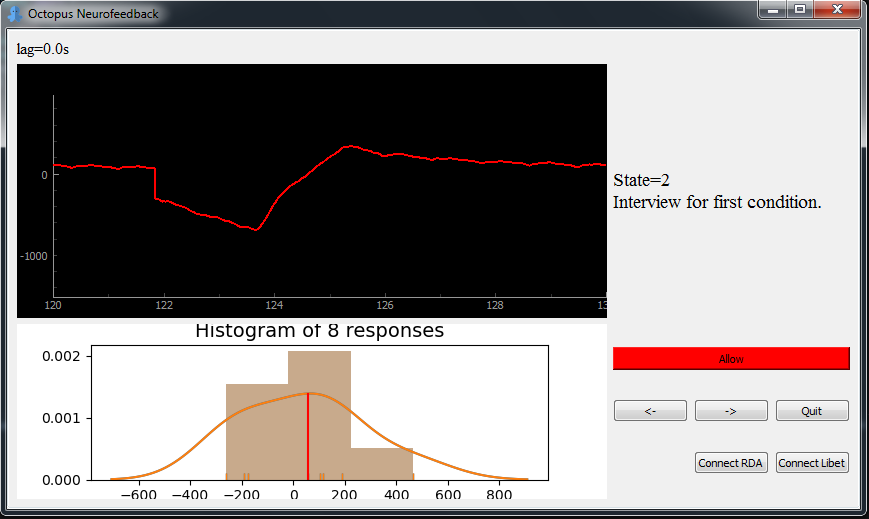
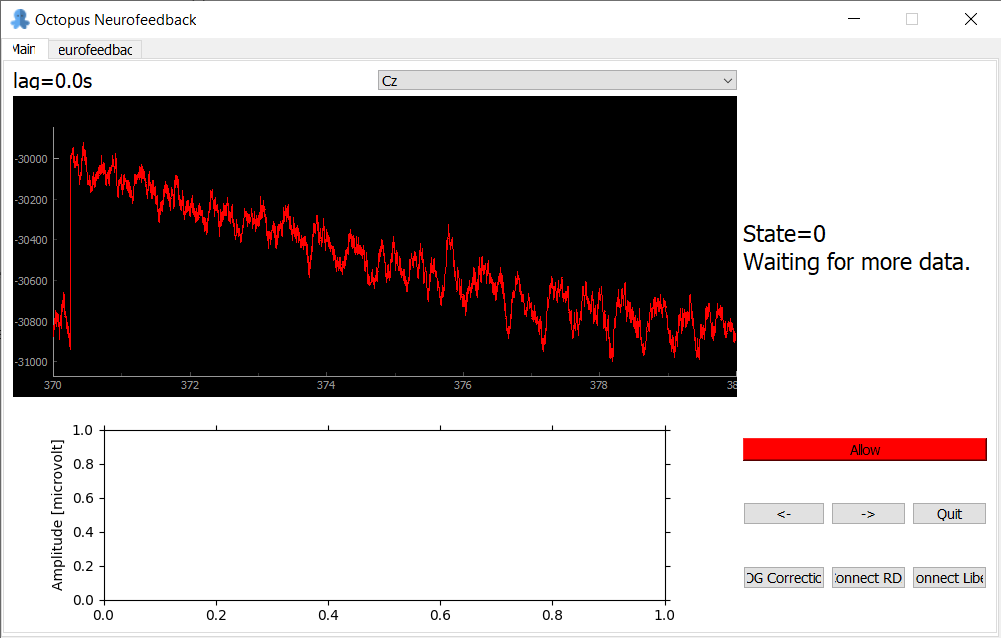
Minor changes

diff --git a/octopus.py b/octopus.py
@@ -1,9 +1,6 @@
 from PyQt5.QtGui import *
 from PyQt5.QtWidgets import *
 from PyQt5.QtCore import *
-from matplotlib.pyplot import axes
-from numpy.lib.format import _has_metadata
-import pyqtgraph as pg
 
 import matplotlib.pyplot as plt
 from callbacks import Callbacks
@@ -42,6 +39,7 @@ class Octopus(MainWindow):
         self.communicate_quit_code = 2
         self.EOGCorrectionDuration = 10
         self.d_est = np.zeros(100)
+        self.toggle_EOG_correction = True
         self.responded = False
         self.current_state = 0
         self.get_statelist()
@@ -99,24 +97,28 @@ class Octopus(MainWindow):
         self.plotsReady = False
         self.init_plots()
 
+        # Timer: Like a scheduler that runs functions after a given interval
         # Set timer for GUI-related tasks:
         self.timer = QTimer()
         self.timer.setInterval(100)  # every 100 ms it is called
         self.timer.timeout.connect(self.GUI_routines)
         self.timer.start()
         
+        # Set timer for the Data Monitor plot
         self.plotTimer = QTimer()
         self.plotTimer.setInterval(20)  # every 20 ms it is called
         self.plotTimer.timeout.connect(self.data_monitor_update)
         self.plotTimer.start()
 
-        # Threading:
+        # Threading: Worker call functions  asynchronously
+
+        # Worker: Data Gatherer (which reads data from brain vision RDA via TCP)
         self.worker_gatherer = Worker(self.gatherer.gather_data)
+        self.threadpool.start(self.worker_gatherer)
+        
+        # Worker: Signalling (Sends signals to the stimulus presentation program)
         self.worker_communication = SignallingWorker(self.internal_tcp.communication_routines)
         self.worker_communication.signals.result.connect(self.response_triggered)  
-        
-        
-        self.threadpool.start(self.worker_gatherer)
         self.threadpool.start(self.worker_communication)
         
     def init_plots(self):
@@ -139,14 +141,15 @@ class Octopus(MainWindow):
                 channelOfInterestIdx=self.channelOfInterestIdx,
                 EOGChannelIndex=self.EOGChannelIndex, blinder=self.blinder)
 
-            self.startNeurofeedbacks()
+            # self.startNeurofeedbacks()
             self.plotsReady = True
         else:
             self.plotsReady = False
 
     def data_monitor_update(self):
         if self.plotsReady:
-            self.data_monitor.update(self.gatherer, self.d_est, self.viewChannel)
+            # self.data_monitor.update(self.gatherer, self.d_est, self.viewChannel)
+            self.data_monitor.update(self)
         else:
             # Plots not ready - sleep a bit!
             time.sleep(0.25)
@@ -322,7 +325,7 @@ class Octopus(MainWindow):
 
     def closeAll(self):
         # Save experiment
-        print("stopping")
+        print("Closing Octopus")
         self.save()
         # close routines
         self.plotTimer.stop()
@@ -413,15 +416,4 @@ class Octopus(MainWindow):
         fun = freq_band_power
         self.NF_alpha = BaseNeuroFeedback(fun, self.NFCanvas, self.threadpool, self.gatherer, freqs, sr, timeRangeProcessed=0.25, 
             channelsOfInterest=channelsOfInterest)
-
-        # # Detrended Fluctuation Analysis Exponent
-        # channelsOfInterest = ['Cz']
-        # fun = dfa
-        # self.NF_alpha = BaseNeuroFeedback(fun, self.NFCanvas, self.threadpool, self.gatherer, timeRangeProcessed=0.25, 
-        #     channelsOfInterest=channelsOfInterest, fit_exp='poly')
-
-    
-           
-
-
-
+     

diff --git a/plot.py b/plot.py
@@ -52,8 +52,13 @@ class DataMonitor:
         self.widget.setXRange(np.min(self.time), np.max(self.time), padding=0)
         self.widget.setYRange(self.ylim[0], self.ylim[1], padding=0)
 
-    def update(self, gatherer, d_est, viewChannel):
-        ''' This method takes a data_package and plots it at the appropriate position in the data monitor plot
+        self.widget.enableAutoRange('y', enable=True)
+        self.widget.setAutoVisible(y=True)
+
+    # def update(self, gatherer, d_est, viewChannel):
+    def update(self, octopus):
+        ''' This method takes a data_package and plots it at the appropriate position in the data monitor plot. 
+            This function is called every 20 ms.
         Parameters:
         -----------
         data_package : list/numpy.ndarray, next data pack
@@ -61,6 +66,11 @@ class DataMonitor:
         Return:
         -------
         '''
+        gatherer = octopus.gatherer
+        d_est = octopus.d_est
+        toggle_EOG_correction = octopus.toggle_EOG_correction
+        viewChannel = octopus.viewChannel
+        
         if viewChannel is not None:
             self.viewChannel = viewChannel
 
@@ -70,7 +80,8 @@ class DataMonitor:
         dataMemory = gatherer.dataMemory[self.viewChannelIndex, :]
         eogMemory = gatherer.dataMemory[self.EOGChannelIndex, :]
         # Correct EOG
-        dataMemory = dataMemory - (eogMemory * d_est[self.viewChannelIndex])
+        if toggle_EOG_correction:
+            dataMemory = dataMemory - (eogMemory * d_est[self.viewChannelIndex])
         IncomingBlockMemory = gatherer.blockMemory
         lagtime = gatherer.lag_s
 
@@ -109,7 +120,8 @@ class DataMonitor:
 
         # If one window is full, start again on left side
         if new_win: # and self.blockCount != 0:
-            self.widget.enableAutoRange('y', False)
+            self.widget.enableAutoRange('y', enable=True)
+            self.widget.setAutoVisible(y=True)
             self.time = np.linspace(self.n_window*self.window_len_s, (self.n_window + 1)*self.window_len_s, self.window_size)
             # New x and y limits
             # new_limits = self.decide_ylimits()

diff --git a/callbacks.py b/callbacks.py
@@ -6,7 +6,7 @@ from gui import SelectChannels, InputDialog
 class Callbacks:
     def __init__(self, octopus):
         self.allow_presentation = False
-        self.permission_statement = ['Allow', 'Forbid']
+        self.permission_statement = ['Disabled', 'Enabled']
         self.buttonColor = ["background-color: red", "background-color: green"]
         self.quit = False
         self.stateChange = 0
@@ -21,12 +21,14 @@ class Callbacks:
         self.octopus.buttonEOGcorrection.pressed.connect(self.EOGcorrection)
         self.octopus.channel_dropdown.currentIndexChanged.connect(self.change_view_channel)
 
+        self.octopus.buttonToggleEOGcorrection.pressed.connect(self.toggleEOGcorrection)
+        self.toggle_EOG_correction_text = ['Off', 'On']
+
     def presentToggle(self):
         self.allow_presentation = not self.allow_presentation
         self.ChangeAllowButton()
 
     def quitexperiment(self):
-        print("pressed")
         self.quit=True
         self.octopus.closeAll()
 
@@ -89,6 +91,16 @@ class Callbacks:
             mydialog.show()
         else:
             print('EOG correction is not possible until gatherer is connected to RDA.')
+    
+    def toggleEOGcorrection(self):
+        ''' Toggle EOG correction on/off'''
+        # Toggle EOG correction
+        self.octopus.toggle_EOG_correction = not self.octopus.toggle_EOG_correction
+        # Change Button label accordingly
+        self.octopus.buttonToggleEOGcorrection.setText(self.toggle_EOG_correction_text[int(self.octopus.toggle_EOG_correction)])
+        # Change Button color accordingly
+        self.octopus.buttonToggleEOGcorrection.setStyleSheet(self.buttonColor[int(self.octopus.toggle_EOG_correction)])
+
 
     def change_view_channel(self):
         print(f'Changed viewchannel for data monitor from {self.octopus.viewChannel} to {self.octopus.channel_dropdown.currentText()}')

diff --git a/gui.py b/gui.py
@@ -45,7 +45,7 @@ class MainWindow(QMainWindow):
         # Add channel dropdown
         self.channel_dropdown = QComboBox()
         # Add buttons
-        self.buttonPresentationcontrol = QPushButton("Allow")
+        self.buttonPresentationcontrol = QPushButton("Disabled")
         self.buttonPresentationcontrol.setStyleSheet("background-color: red")
         self.buttonQuit = QPushButton("Quit")
         self.buttonforward = QPushButton("->")
@@ -53,6 +53,7 @@ class MainWindow(QMainWindow):
         self.buttonEOGcorrection = QPushButton("EOG Correction")
         self.buttonConnectRDA = QPushButton("Connect RDA")
         self.buttonConnectLibet = QPushButton("Connect Libet")
+        self.buttonToggleEOGcorrection = QPushButton("EOG On/Off")
         
         # Button Group
         button_layout = QGridLayout()
@@ -63,6 +64,8 @@ class MainWindow(QMainWindow):
         button_layout.addWidget(self.buttonConnectRDA, 2, 1)
         button_layout.addWidget(self.buttonConnectLibet, 2, 2)
         button_layout.addWidget(self.buttonEOGcorrection, 2, 0)
+        button_layout.addWidget(self.buttonToggleEOGcorrection, 3, 0)
+        
         # Lag and channel dropdown thing
         second_head_layout = QGridLayout()
         second_head_layout.addWidget(self.title, 0, 0)

diff --git a/communication.py b/communication.py
@@ -1,19 +1,18 @@
-from socket import AF_INET, SOCK_STREAM
+from socket import AF_INET, SOCK_STREAM, gethostbyname, gethostname
 import socket
 from tcp import CustomSocket
-from util import gui_retry_cancel
 import select
 import time
 
 class TCP:
-    def __init__(self, IP='192.168.2.122', port=5005, BufferSize=1024, \
+    def __init__(self, IP='10.16.5.93', port=5005, BufferSize=1024, \
         encoding='utf-8', timeout=5):
         ''' This method creates an internal socket connection which enables 
         communication between this neurofeedback program and the libet stimulus
         presentation program. 
         '''
         
-        self.IP = IP
+        self.IP = gethostbyname(gethostname())
         self.port = port
         self.BufferSize = BufferSize
         
@@ -136,7 +135,7 @@ class StimulusCommunication(TCP):
     
     def quit(self):
         self.connected = False
-        self.con.close()
+        self.socket.close()
     
     def communicateQuit(self):
         # Send message to libet presentation that the experiment is over

diff --git a/gather.py b/gather.py
@@ -5,8 +5,7 @@ import time
 from util import *
 
 class Gather:
-    def __init__(self, ip="192.168.2.122", port=51244, targetMarker='response',
-        sockettimeout=0.1):
+    def __init__(self, port=51244, sockettimeout=0.1):
         ''' 
         Parameters:
         -----------
@@ -38,7 +37,7 @@ class Gather:
 
         # Data TCP Connection (with PC that sends RDA)
         self.connected = False
-        self.ip = ip
+        self.ip = gethostbyname(gethostname())
         self.port = port
         self.sockettimeout = sockettimeout
         self.retryText = ('Try again?', 'Connection to Remote Data Access could not be established.')

diff --git a/issues_and_features.md b/issues_and_features.md
@@ -1,0 +1,37 @@
+# Current Issues
+
+## I1: Quit Button dysfunctional
+### Description 
+When pressing quit the program halts and throws an error that some connection is not correct.
+
+## I2: Form on startup does not know which channels are available
+### Description:
+When octopus starts it asks for SCP channel and reference channels, however these are sometimes unknon, sometimes no extra reference channel may be required. 
+### Solution:
+* Give the user more options by allowing no reference channels
+* Be smart and check if "Cz" is present as SCP channel, otherwise auto-select a channel that is present such that it technically works.
+
+# Feature Reqests
+
+## F1: Neurofeedback
+* Make sure the neurofeedback modules work nice and modular
+* Add calibration button
+* Implement the live source imaging neurofeedback
+
+## F2: UI Design
+* Add basic recording parameters as text on the UI:
+1000Hz - 32 Channels - 
+
+## F3: Folder structure
+Separate code repository from general files like you do for a python package.
+
+# Qualitiy Assurance
+## QA1:
+Ensure blinding works as intended and create a new blinding template
+
+## QA2:
+Perform technical pilot with yourself as participant
+
+## QA3:
+What was the deal with the eye artifact removal? How can you verify that it works?
+
